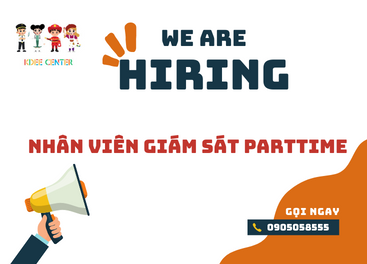
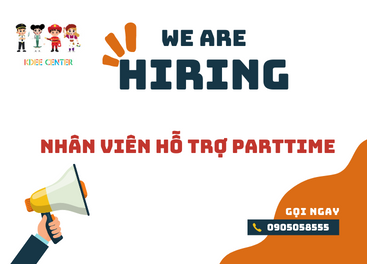
14/8

Changed region(s): [[0.0599, 0.4848, 0.9591, 0.6061]]

diff --git a/index.html b/index.html
@@ -1446,6 +1446,9 @@
                                         <input type="text" class=" form-control m-mb-20" placeholder="Email">
                                     </div>
                                     <div class="col-md-6 mb-3">
+                                        <input type="text" class=" form-control m-mb-20" placeholder="Số điện thoại">
+                                    </div>
+                                    <div class="col-md-6 mb-3">
                                         <div class="position-relative m-mb-20">
 
                                             <label class="position-absolute m-label">
@@ -1653,7 +1656,7 @@
 
                     </div>
                     <div class="nav nav-pills mb-4 mb-md-4 d-flex justify-content-center filtering">
-                        <!-- <span data-filter="" class="pointer nav-link active ">Tất cả</span> -->
+                        <span data-filter="" class="pointer nav-link active ">Tất cả</span>
                         <!-- <span class="pointer nav-link" data-filter=".surgery">Surgery</span>
                         <span class="pointer nav-link" data-filter=".clinical">Clinical</span>
                         <span class="pointer nav-link" data-filter=".operations">Operations</span>
@@ -1684,7 +1687,7 @@
                             <div class="overlay">
                                 <a href="./medical/img/parttime.png" class=" text-center" data-fancybox="images">
                                     <div class="search-icon"><i class="fa fa-search"></i> </div>
-                                    <h4 class="">Nhân viên giám sát parttime</h4>
+                                    <h4 class="">Nhân viên hỗ trợ parttime</h4>
                                 </a>
                             </div>
                         </li>
@@ -1771,7 +1774,7 @@
                             <img src="medical\img\testimonial-3.png" alt="image">
                         </div>
                         <h5 class="font-weight-500 main-font drk-blu">Quang Trần</h5>
-                        <span class="destination main-font">Hồ Chí Minh</span>
+                        <span class="destination main-font">Đà Lạt</span>
                     </div>
                     <!--testimonial item-->
                     <div class="testimonial-item item">
@@ -1799,7 +1802,7 @@
                             <img src="medical\img\testimonial-1.png" alt="image">
                         </div>
                         <h5 class="font-weight-500 main-font drk-blu">David Gover</h5>
-                        <span class="destination main-font">Newyork, USA</span>
+                        <span class="destination main-font">Hải Châu, Đà Nẵng</span>
                     </div>
                     <!--testimonial item-->
                     <div class="testimonial-item item">
@@ -1813,7 +1816,7 @@
                             <img src="medical\img\testimonial-1.png" alt="image">
                         </div>
                         <h5 class="font-weight-500 main-font drk-blu">David Gover</h5>
-                        <span class="destination main-font">Newyork, USA</span>
+                        <span class="destination main-font">Hải Châu, Đà Nẵng</span>
                     </div>
 
                 </div>
